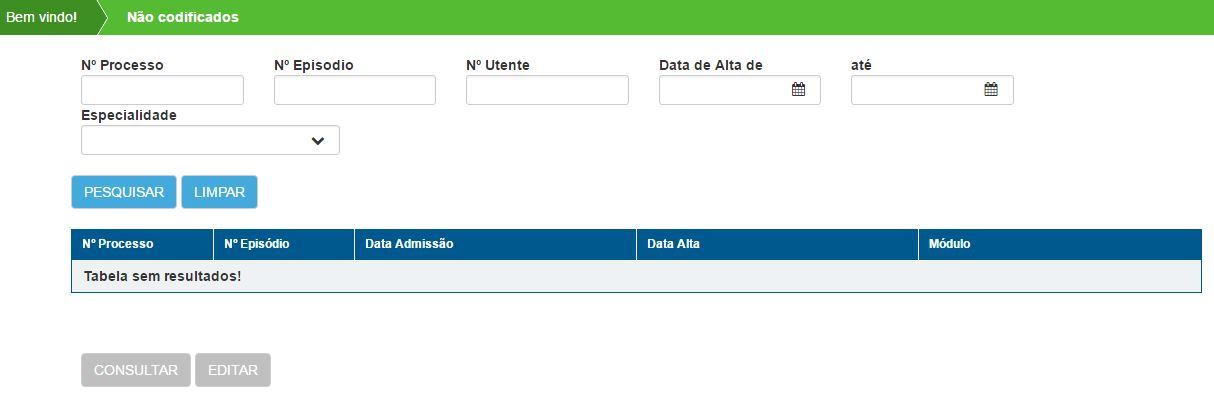
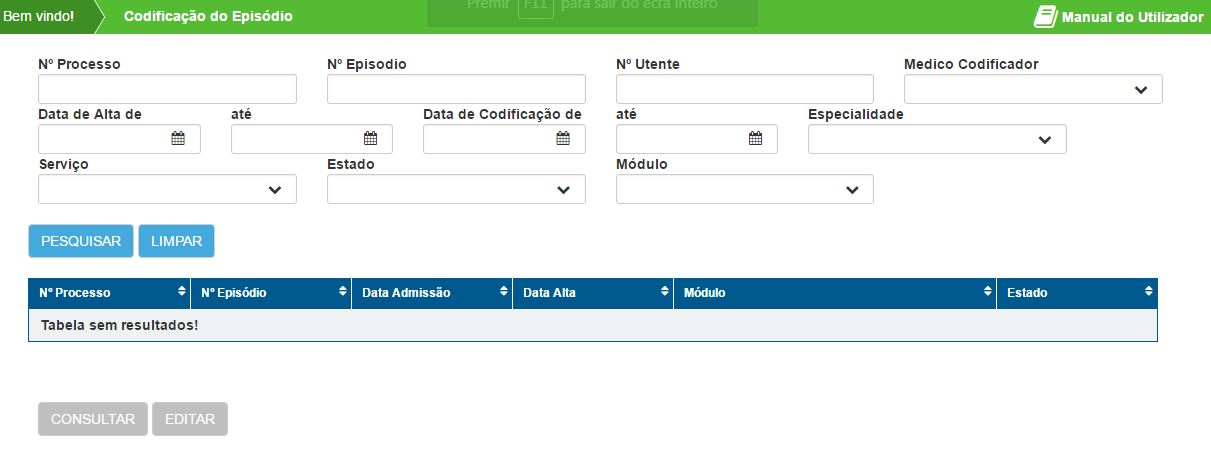
Revisão do módulo codificação do episódio

diff --git a/SIMH_Manual_Utilizador/Indice.html b/SIMH_Manual_Utilizador/Indice.html
@@ -50,10 +50,10 @@
 					</ul>
 				</li>
 				<li>
-					<div>6 - Codificação de Episódios</div>
+					<div>6 - Codificação do Episódio</div>
 					<ul>
 						<li>
-							<a href="#codificar">6 - Codificação de Episódios</a>
+							<a href="#codificar">6 - Codificação do Episódio</a>
 						</li>
 						<li>
 							<a href="#pesquisa-de-episdios-por-codificar">6.1 - Pesquisa de episódios por codificar</a>
